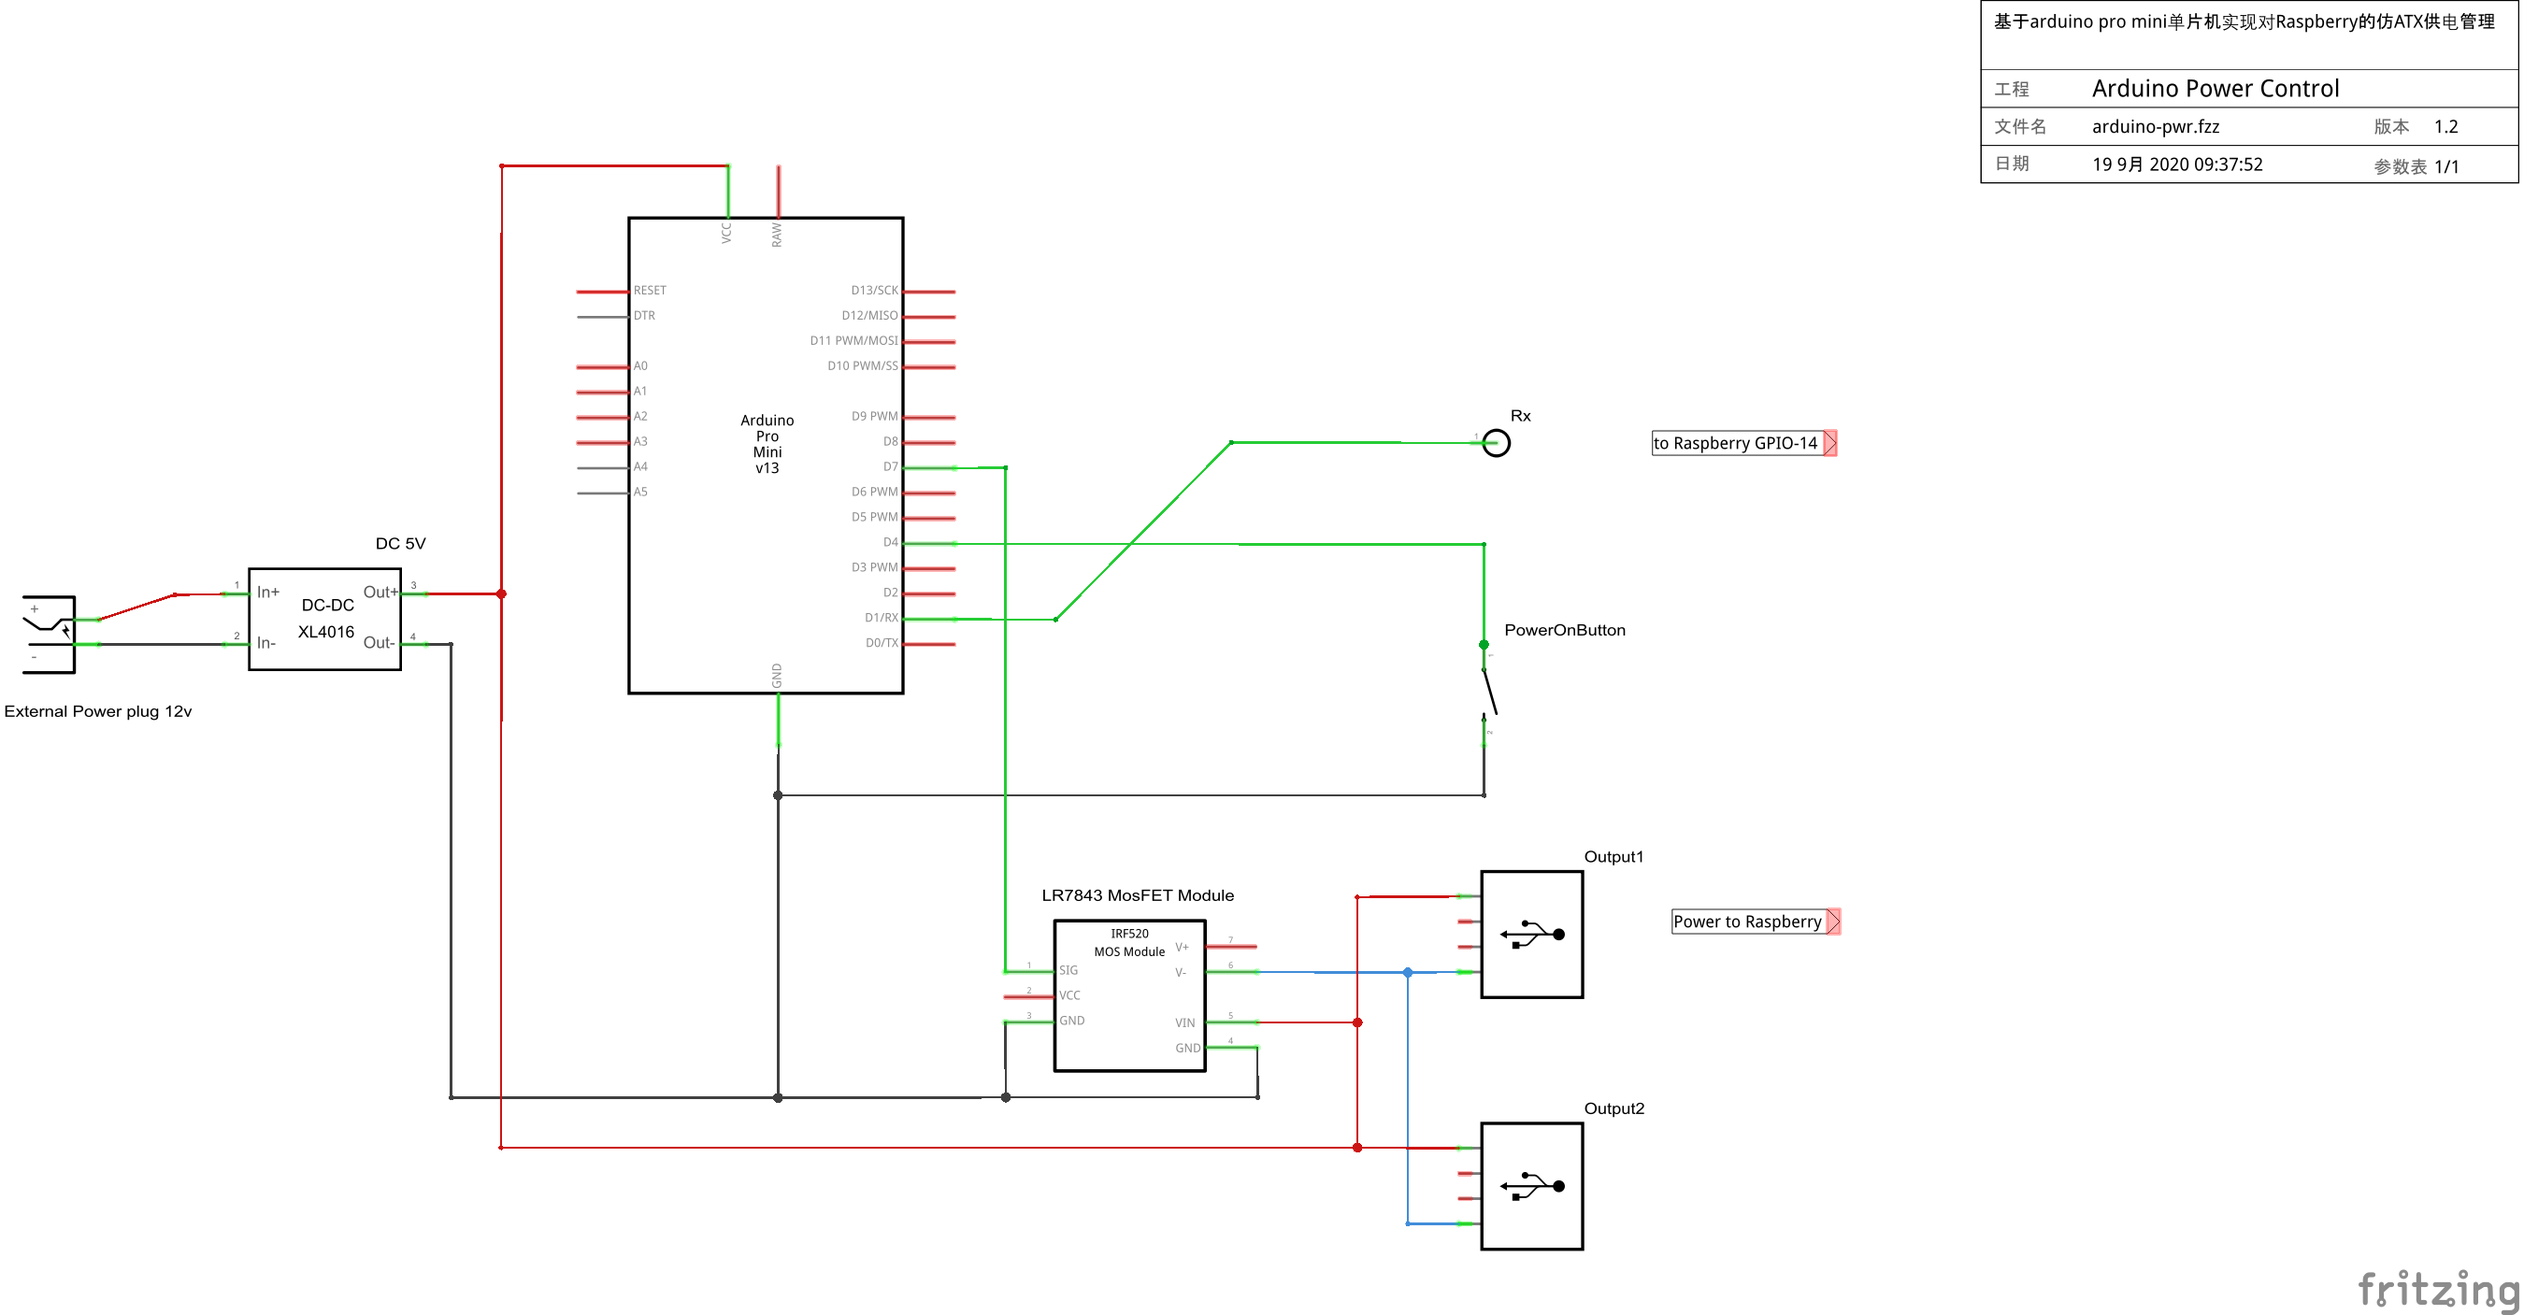
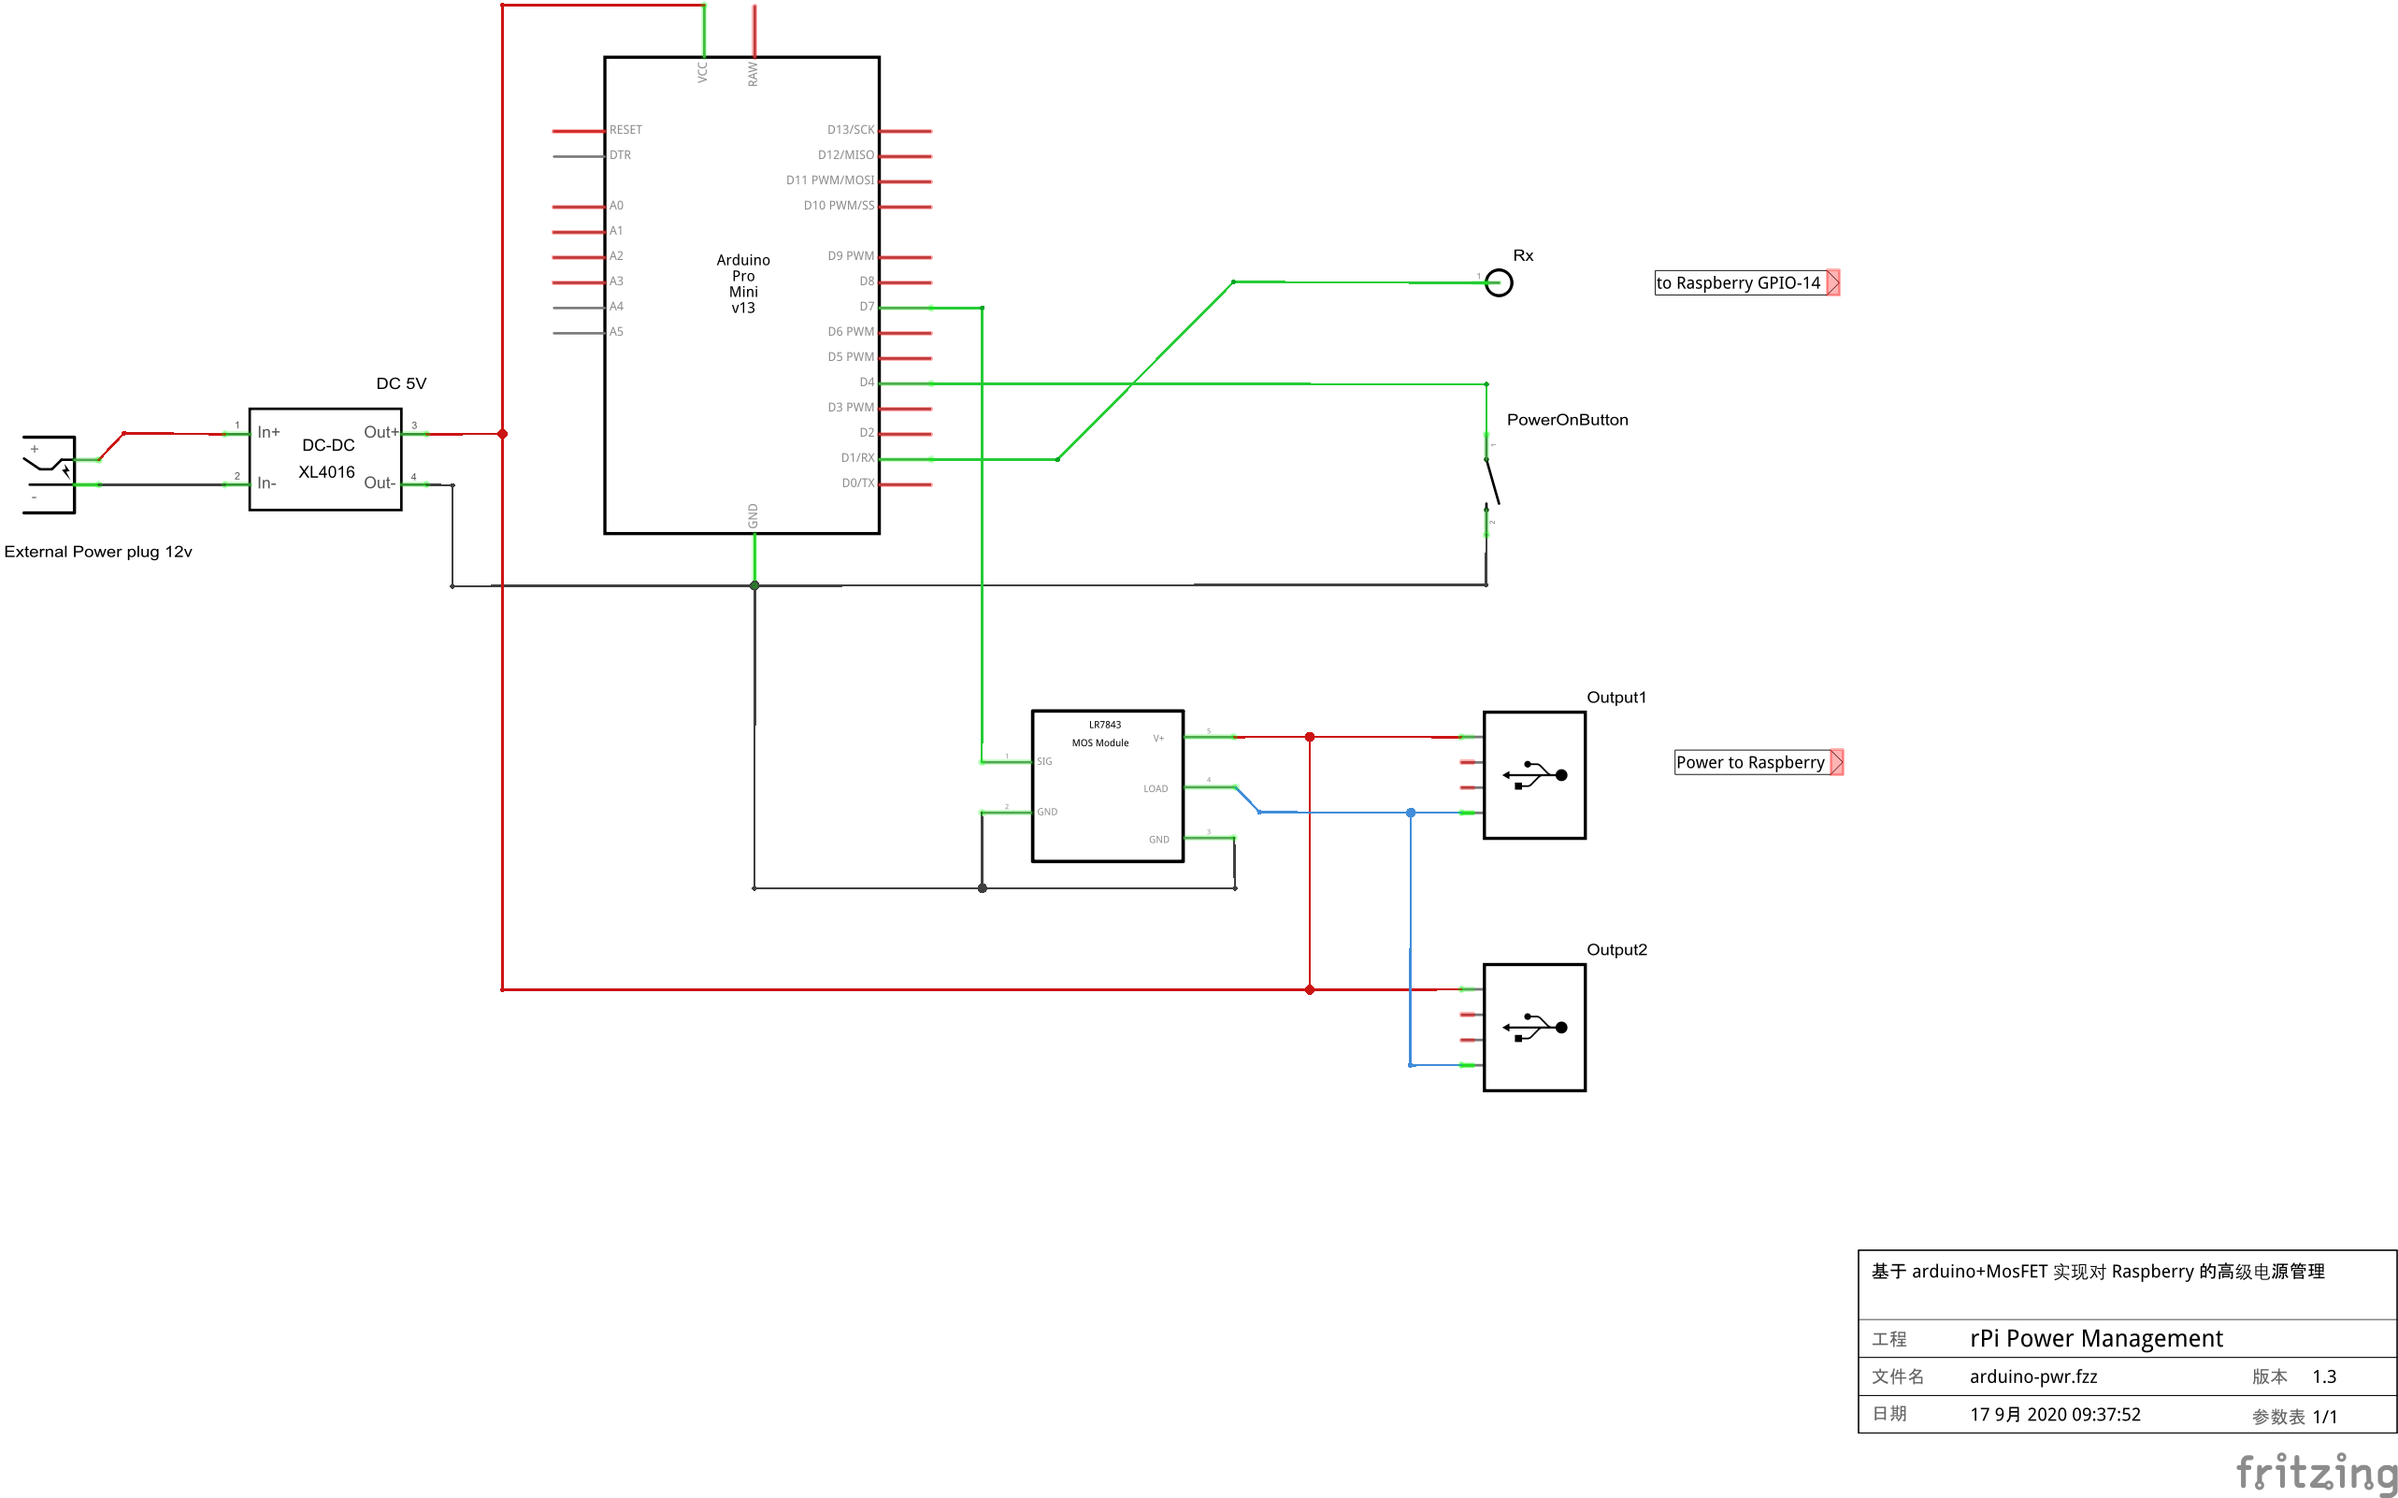
Update readme

diff --git a/README.md b/README.md
@@ -1,33 +1,43 @@
+# [Readme in English](./README.en.md)
+
+Simple power management module for Raspberry Pi based on Arduino + MosFET
+
 # 起因
 
 <img src="https://webdoc.lenovo.com.cn/lenovowsi/new_cskb/uploadfile/20121110090610001.gif" alt="the power control without ACPI" style="zoom: 67%;" />
 
-一直以来，我们都是通过插拔电源的手动方式来控制树莓派的启停，加电即开机，关机却不断电，彷佛回到2000年左右，在586横行的年代，执行关机命令后，等待屏幕提示然后按下开关关闭电源，这个姿势实在不够优雅！
+一直以来，我们都是通过插拔电源的方式来控制树莓派的启停，加电即开机，关机却不断电，这让我想到2000年以前，在586横行的年代，执行关机命令后，等待屏幕提示然后按下开关关闭电源，这个姿势实在不够优雅！
+
+对于树莓派的电源管理我有一些困惑：
+
+- 如果关机不断电，**持续光污染、持续风噪、持续耗电**，符合红色99级能效标识吗？
+- 即使通过插拔或开关来断电，那么执行 `shutdown` 后等 **多少秒** 后才能安全断电？
+- 为什么断电操作需要 **人类手动执行？**
+
+其本质上，树莓派系统缺乏 `ACPI` 高级电源管理支持。
 
 # 方案
 
-所以我决定为树莓派设计一套简单的自定义硬件模块（类似于ATX/ACPI电源管理），可以很好的解决这个电源管理的麻烦，并分享我的解决方案。
+所以我决定为树莓派设计一套低成本的自定义硬件方案，模仿ACPI高级电源管理特性，可以很好的解决这个不大不小的麻烦，下面分享我的解决方案。
 
 ## 设计目标
 
 - 无需树莓派中运行任何程序或触发
-
+- 与树莓派之间具有最少的物理连接
+- 参考ATX/ACPI电源管理特点
 - 基于低廉的硬件设施，并易于组装实现
+- 长时间、低功耗、高可靠的运行
 
-- 参考ATX/ACPI电源特点
-
-- 长时间、低功率、高可靠的运行
-
-不能满足以上要求的电源管理都是耍流氓，以上任何一条都是该方案严格遵守的，亦是方案优点。
+不能满足以上要求的电源管理都是耍流氓，以上每一条都是该方案严格遵守的，亦是方案优点。
 
 ## 功能特性
 
 1. 按下电源按钮优雅开机，而不是上电立即开机
-2. 树莓派关机后，延迟20秒后自动断电，而不是插拔电源
+2. 当树莓派关机，延迟后自动断电，无需人类操作电源断开
 3. 在供电期间，长按电源按钮可以强制断电
 4. 在延迟断电期间，按下电源按钮取消延迟断电
 
-这是已实现的特性，以后会考虑升级软硬件方案增加更多特性。
+这是 **已实现的特性**，以后会考虑升级软硬件方案增加更多特性。
 
 ## 原理图
 
@@ -35,36 +45,19 @@
 
 ## 所需模块
 
-- 大功率 DC-DC 降压模块（如果是直接DC5V供电则不需要）
+- 大功率 DC-DC 转换模块（例如 LM2596 XL4005 XL6009 MP1584 等）
+  - 如果是高于5V供电则为降压模块
+  - 如果是直接5V供电则不需要
+  - 如果是低于5V供电则为升压模块（例如3.7V锂电池）
 - Arduino Pro Mini (5V, 16MHz)
-- LR7843 MosFET (或其它大功率Mos管)
+- LR7843 MosFET (或其它大功率型号，建议选择Mos模块)
 - 按钮、插头、导线等
+
+参考：总成本应该在20元左右。
 
 ## 状态机
 
-```
-  
-                    ┌─────────────┐
-                    │  POWER_OFF  │
-                    └──────┬──────┘
-                           │ <press button>
-                      ┌────┴─────┐
-                      │ POWER_ON ├────────────────────────────────────┐
-                      └────┬─────┘                                    │
-                           │                                          │
-                ┌──────────┴───────────┐                              │
-   <long press> │                      │ <serial command>             │
-                │             ┌────────┴───────────┐                  │
-                │             │  POWER_OFF_PENDING │                  │
-                │             └────────┬───────────┘                  │
-                │       <timer>        │       <press button>         │
-                │     ┌────────────────┴──────────────────────────────┘
-                │     │                
-           ┌────┴─────┴────┐                          
-           │   POWER_OFF   │                 
-           └───────────────┘
-  
-```
+![state-machine](state-machine.png)
 
 ## 触发条件
 
@@ -72,18 +65,33 @@
 
 ### 供电
 
-- 按钮触发
-- *定时触发（TODO 需要RTC时钟模块）* 
+- [x] 按钮触发
+- [ ] *定时触发（TODO1）* 
 
 ### 断电
 
-- 按钮触发
-- 串口终端的 Kernel log
-- *通过霍尔电流传感器（TODO）*
+- [x] 按钮触发
+- [x] 串口终端的 Kernel log
+- [ ] *供电电流降低（TODO2）*
+
+备注：对于TODO1需要增加RTC时钟，对于TODO2需要增加霍尔传感器。
 
 # 如何安装
 
 1. 按照原理图安装好电路模块，注意引脚连线
 2. 向 `Arduino` 写入本仓库提供的 `rPiPwrMngt.ino` 程序
-3. 通过 `raspi-config` 打开树莓派串口
+3. 通过 `raspi-config` 启用树莓派串口 `serial`
+
+如果你手脚伶俐，应该可以在1-2小时完成安装。
+
+# 自定义安装
+
+如果你并非按照图示中的针脚连接，请根据实际情况修改定义：
+
+```c
+// the pin number of MosFET module
+const int PIN_RELAY = 7;
+// the pin number of power button
+const int PIN_POWER_BTN = 4;
+```
 

diff --git a/README.en.md b/README.en.md
@@ -1,0 +1,90 @@
+# Introduction
+
+For a long time, we have controlled the power state of the Raspberry Pi by plugging and unplugging the power supply. Turning on the power will cause the system to start, but shutdown the system does not stop the power supply. This reminds me of before 2000, the 586 was popular, after the shutdown command was executed, waiting for the screen prompt and then pressing the switch to turn off the power, this posture is really not graceful!
+
+I have some confusion about the power management of the Raspberry Pi:
+
+- If the system shutdown without power down, **continuous light pollution, continuous wind noise, continuous power consumption**, too bad!
+- Even if the power is cut off by unplugging power supply, after executing `shutdown` command, wait **how many seconds** before it can be safely cut off?
+- Why does the power-off operation require **human manual execution? **
+
+In essence, lack of supporting `ACPI` is the major issue in Raspberry Pi.
+
+# Solution
+
+So I decided to design a low-cost custom hardware solution for the Raspberry Pi to solve this trouble, I will share my solution below.
+
+## Goals
+
+- No need to run any programs or triggers in the Raspberry Pi
+- Minimal physical wires with Raspberry Pi
+- Refer to ATX/ACPI power management features
+- Based on low-cost hardware facilities and easy to assemble
+- Long-term, low power consumption, highly reliable operation
+
+Any Power management cannot meet the above requirements is a rogue. Each of the above is strictly abided by this solution, which is also the advantage of this solution.
+
+## Features
+
+1. Press the button to startup gracefully, instead of turning power supply to startup.
+2. When the Raspberry Pi shuts down, it will automatically power down after a delay, without the need for humans.
+3. During the power on period, long press the button to force the power down.
+4. During the delayed power down, press the button to cancel the delayed power down.
+
+This is the **implemented features**, I will consider upgrading the software and hardware solutions to add more features in the future.
+
+## Schematic
+
+![schematic](schematic.png)
+
+## Required modules
+
+- High-power DC-DC conversion module (such as LM2596 XL4005 XL6009 MP1584, etc.)
+  - If the power supply is higher than 5V, it is a step-down module
+  - No need if it is a direct 5V power supply
+  - If the power supply is lower than 5V, it is a boost module (such as 3.7V lithium battery)
+- Arduino Pro Mini (5V, 16MHz)
+- LR7843 MosFET (or other high-power models, Mos module is recommended)
+- Buttons, plugs, wires, etc.
+
+Note: The total cost should be less than $3.
+
+## State machine
+
+![state-machine](state-machine.png)
+
+## Triggering conditions
+
+The core of this power management is state transition, and choosing a reliable and easy-to-implement conditional edge is the core factor for the success of the solution:
+
+### Condition of power on
+
+- [x] button trigger
+- [ ] *Timed trigger (TODO1)*
+
+### Condition of power off
+
+- [x] button trigger
+- [x] Kernel log of the serial terminal
+- [ ] *Power supply current reduction (TODO2)*
+
+Note: For TODO1 RTC clock needs to be added, and for TODO2 Hall sensor needs to be added.
+
+# How to install
+
+1. Install the circuit module according to the schematic diagram, pay attention to the pin connections
+2. Write the `rPiPwrMngt.ino` program provided by this repository to `Arduino`
+3. Enable the Raspberry Pi serial port `serial` via `raspi-config`
+
+If you are skilled, you should be able to complete the installation in 1-2 hours.
+
+# Custom installation
+
+If you are not connecting according to the pins in the figure, please modify the definitions according to the actual situation:
+
+```c
+// the pin number of MosFET module
+const int PIN_RELAY = 7;
+// the pin number of power button
+const int PIN_POWER_BTN = 4;
+```
